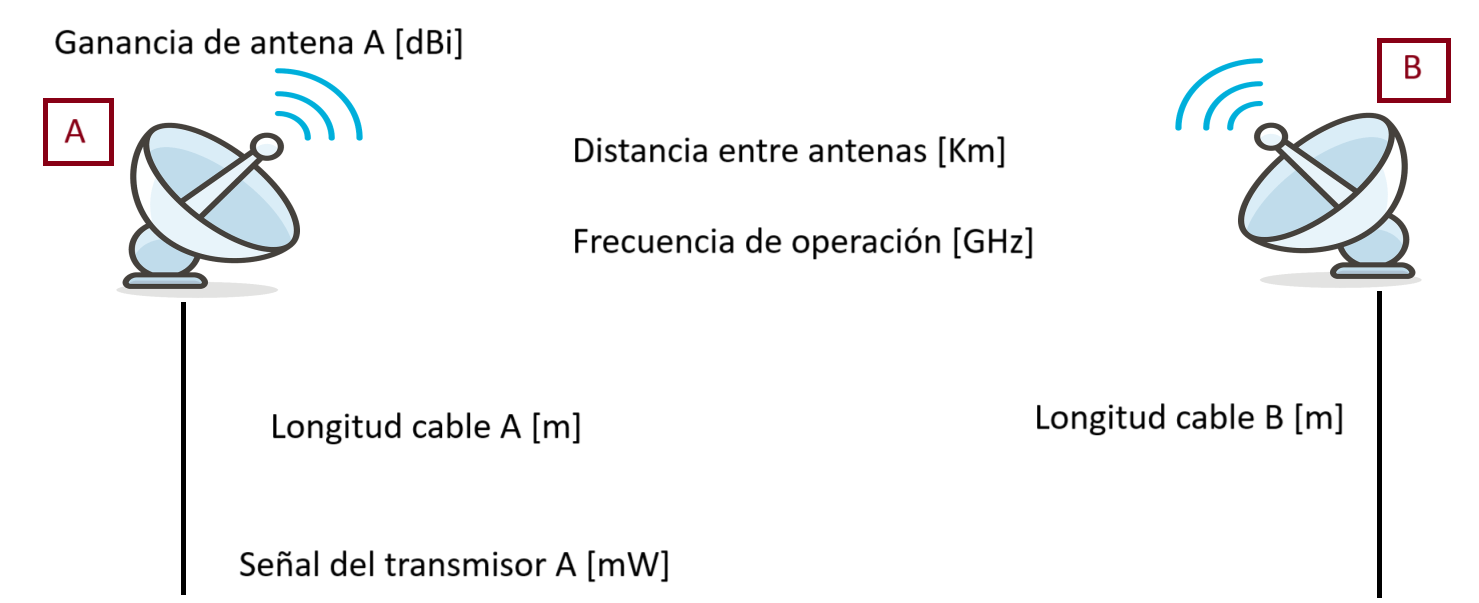
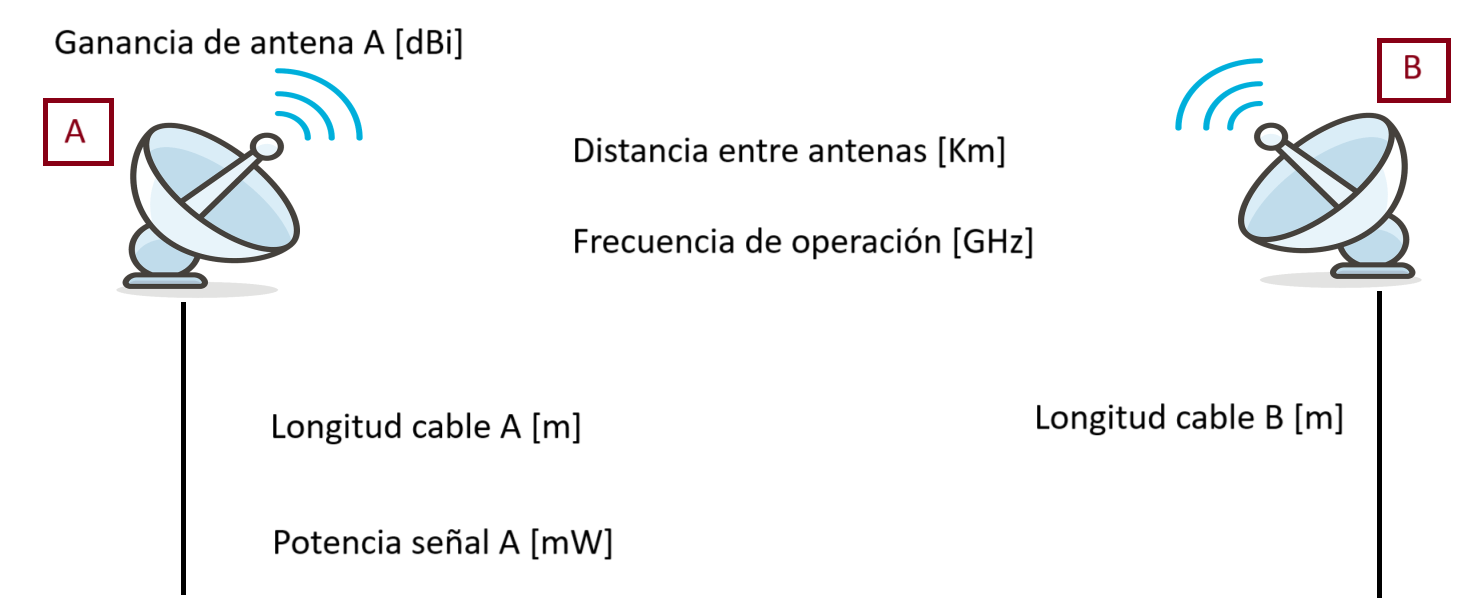
Selecctor de frecuencia

Changed region(s): [[0.1555, 0.8657, 0.4665, 0.9552]]

diff --git a/index.html b/index.html
@@ -47,9 +47,9 @@
         </h1>
 
         <p class="fs-3">
-          Calculadora de indicador de fuerza de la señal recibida de la antena B(RSSI) y recomienda una
-          antena de la matriz Aruba que sea compatible. Considerando una antena
-          isotrópica de 1mW.
+          Calculadora de indicador de fuerza de la señal recibida de la antena
+          B(RSSI) y recomienda una antena de la matriz Aruba que sea compatible.
+          Considerando una antena isotrópica de 1mW.
         </p>
 
         <img
@@ -72,16 +72,17 @@
                   placeholder="[Km]"
                   required
                 />
+              </div>
               <!-- frecuencia -->
               <div class="form-group">
                 <label for="frecuencia">Frecuencia de operacion:</label>
-                <input
-                  type="text"
-                  class="form-control"
-                  id="frecuencia"
-                  placeholder="[GHz]"
-                  required
-                />
+                <select class="form-control" id="frecuencia" required>
+                  <option value="2.4">2.4 GHz</option>
+                  <option value="5">5 GHz</option>
+                </select>
+                        
+          
+              </div>
               <!-- atenuacion -->
               <div class="form-group">
                 <label for="atenuacion">Atenuación por cable A y B:</label>
@@ -92,8 +93,6 @@
                   placeholder="[dB/m]"
                   required
                 />
-              </div>
-              </div>
               </div>
             </form>
           </div>
@@ -123,9 +122,9 @@
                 />
               </div>
 
-              <!-- señalA -->
+              <!-- Potencia -->
               <div class="form-group">
-                <label for="señalA">Señal del trasmisor A:</label>
+                <label for="señalA">Potencia señal A:</label>
                 <input
                   type="text"
                   class="form-control"
@@ -134,7 +133,6 @@
                   required
                 />
               </div>
-
             </form>
           </div>
           <div class="col-md-4">
@@ -158,7 +156,7 @@
                   type="text"
                   class="form-control"
                   id="sensibilidad"
-                  placeholder="[dB]"
+                  placeholder="[dBm]"
                   required
                 />
               </div>
@@ -177,19 +175,20 @@
           </div>
           <!-- Botón de envío -->
           <button
-          type="button"
-          class="btn btn-primary mt-2"
-          onclick="enviarDatos()"
-        >
-          Enviar Datos
-        </button>
-        <!-- Mensaje de alerta (inicialmente oculto) -->
-        <div
-          class="alert alert-danger mt-3"
-          id="alerta"
-          style="display: none"
-        >Por favor, complete todos los campos con números decimales.
-        </div>
+            type="button"
+            class="btn btn-primary mt-2"
+            onclick="enviarDatos()"
+          >
+            Enviar Datos
+          </button>
+          <!-- Mensaje de alerta (inicialmente oculto) -->
+          <div
+            class="alert alert-danger mt-3"
+            id="alerta"
+            style="display: none"
+          >
+            Por favor, complete todos los campos con números decimales.
+          </div>
           <div class="col-md-6">
             <!--Resultados-->
             <div class="mt-3" id="resultados">
@@ -203,7 +202,7 @@
                 </thead>
                 <tbody>
                   <tr>
-                    <td>Ganancia de la señal del trasmisor</td>
+                    <td>Ganancia de Potencia señal A</td>
                     <td id="ptx" class="text-center">-</td>
                   </tr>
                   <tr>
@@ -223,7 +222,9 @@
                     <td id="espacio" class="text-center">-</td>
                   </tr>
                   <tr>
-                    <td class="fw-bold">Ganancia RSSI</td>
+                    <td class="fw-bold">
+                      RSSI (indicador de fuerza de la señal recibida)
+                    </td>
                     <td id="rssi" class="text-center fw-bold">-</td>
                   </tr>
                 </tbody>
@@ -239,8 +240,7 @@
                   <th class="text-center">Imagen</th>
                 </tr>
               </thead>
-              <tbody id="tipoAntena">
-              </tbody>
+              <tbody id="tipoAntena"></tbody>
             </table>
           </div>
         </div>

diff --git a/main.js b/main.js
@@ -161,18 +161,18 @@ function enviarDatos() {
     const resRSSI = parseFloat(sensibilidad) + parseFloat(margen) - ptx + aA + aB - gananciaA + el;
     const antenasElegidas = seleccionarAntenas(frecuencia, resRSSI);
 
-    //Ptx
-    document.getElementById("ptx").innerHTML = `${ptx.toFixed(3)} dB`;
-    //Atenuacion cable A
+    //Ptx dBm
+    document.getElementById("ptx").innerHTML = `${ptx.toFixed(3)} dBm`;
+    //Atenuacion cable A dB
     document.getElementById("cableA").innerHTML = `${aA.toFixed(3)} dB`;
-    //Atenuacion cable B
+    //Atenuacion cable B dB
     document.getElementById("cableB").innerHTML = `${aB.toFixed(3)} dB`;
-    //Ganancia de antena A
-    document.getElementById("antena").innerHTML = `${gananciaA} dB`;
-    //Atenuación en el Espacio Libre
+    //Ganancia de antena A dBi
+    document.getElementById("antena").innerHTML = `${gananciaA} dBi`;
+    //Atenuación en el Espacio Libre dB
     document.getElementById("espacio").innerHTML = `${el.toFixed(3)} dB`;
-    //RSSI
-    document.getElementById("rssi").innerHTML = `${resRSSI.toFixed(3)} dB`;
+    //RSSI dBm
+    document.getElementById("rssi").innerHTML = `${resRSSI.toFixed(3)} dBm`;
     //Antena
     if (antenasElegidas.length > 0) {
       const contenidoAntenas = antenasElegidas
